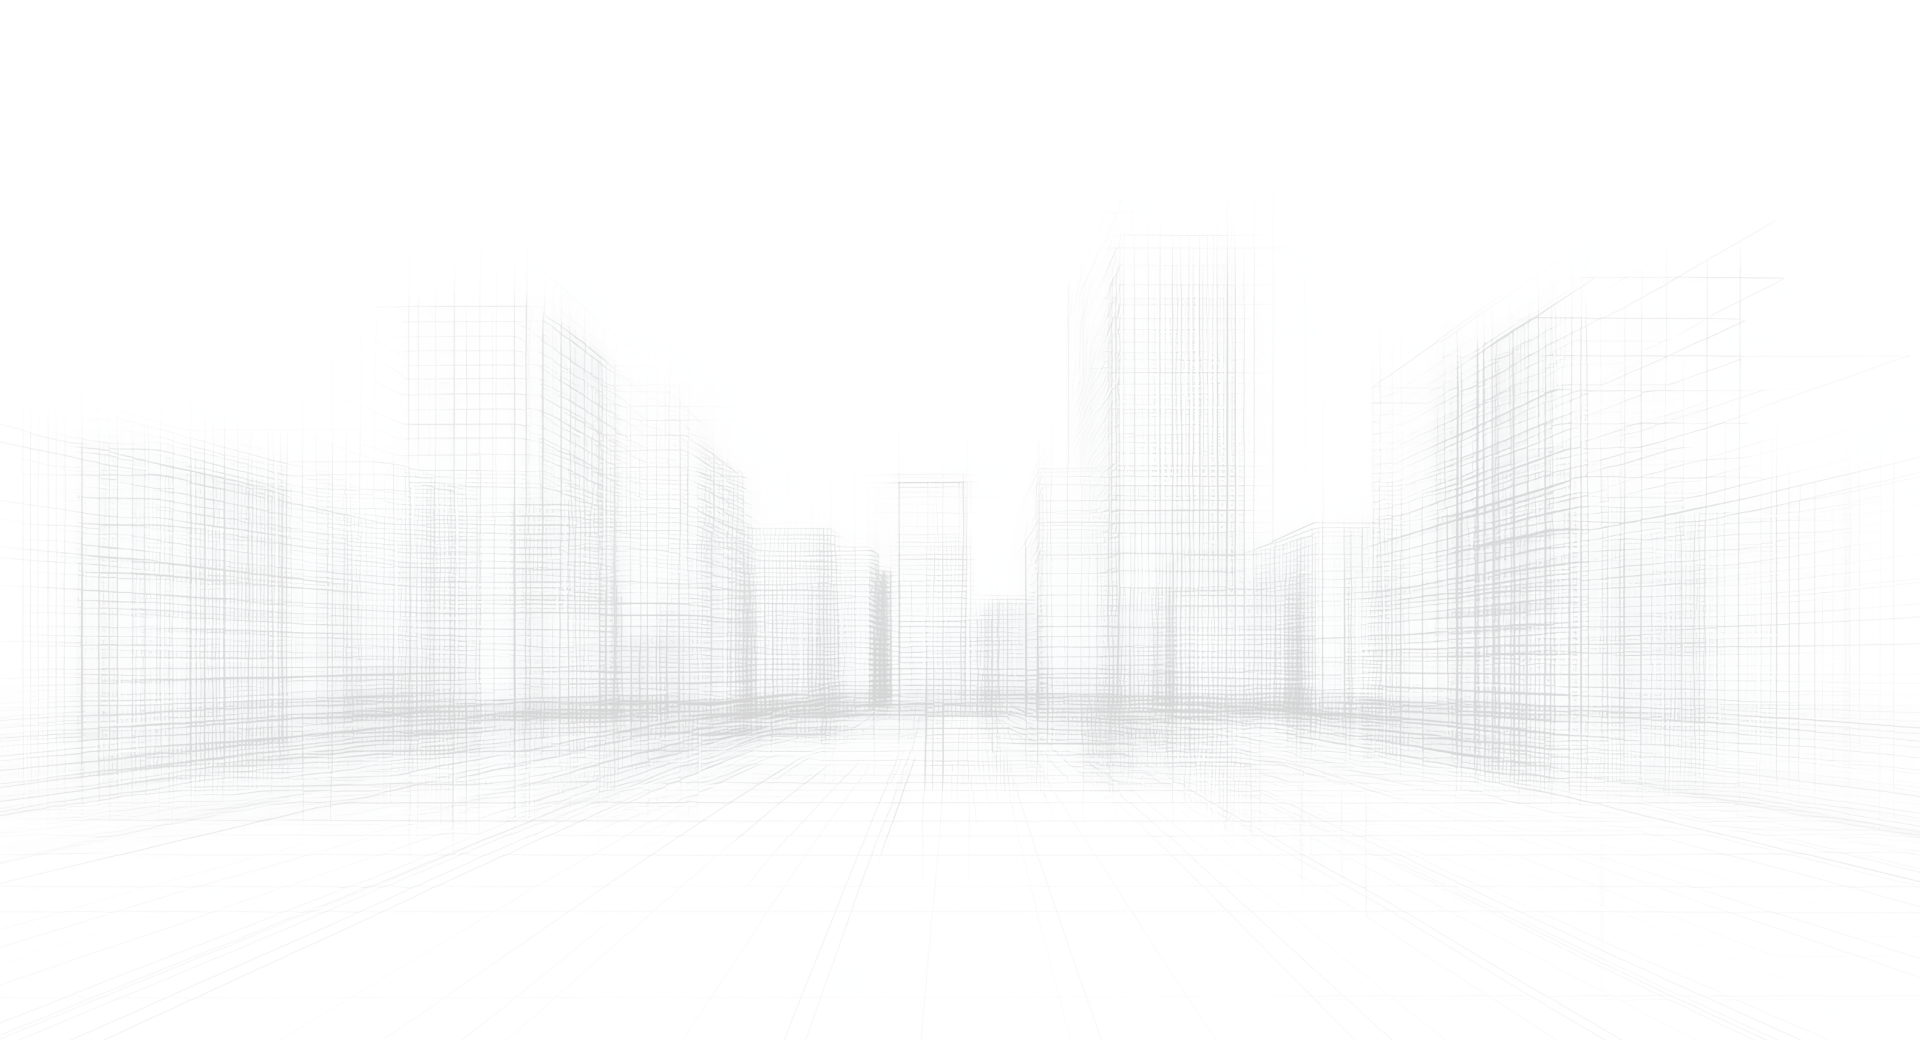
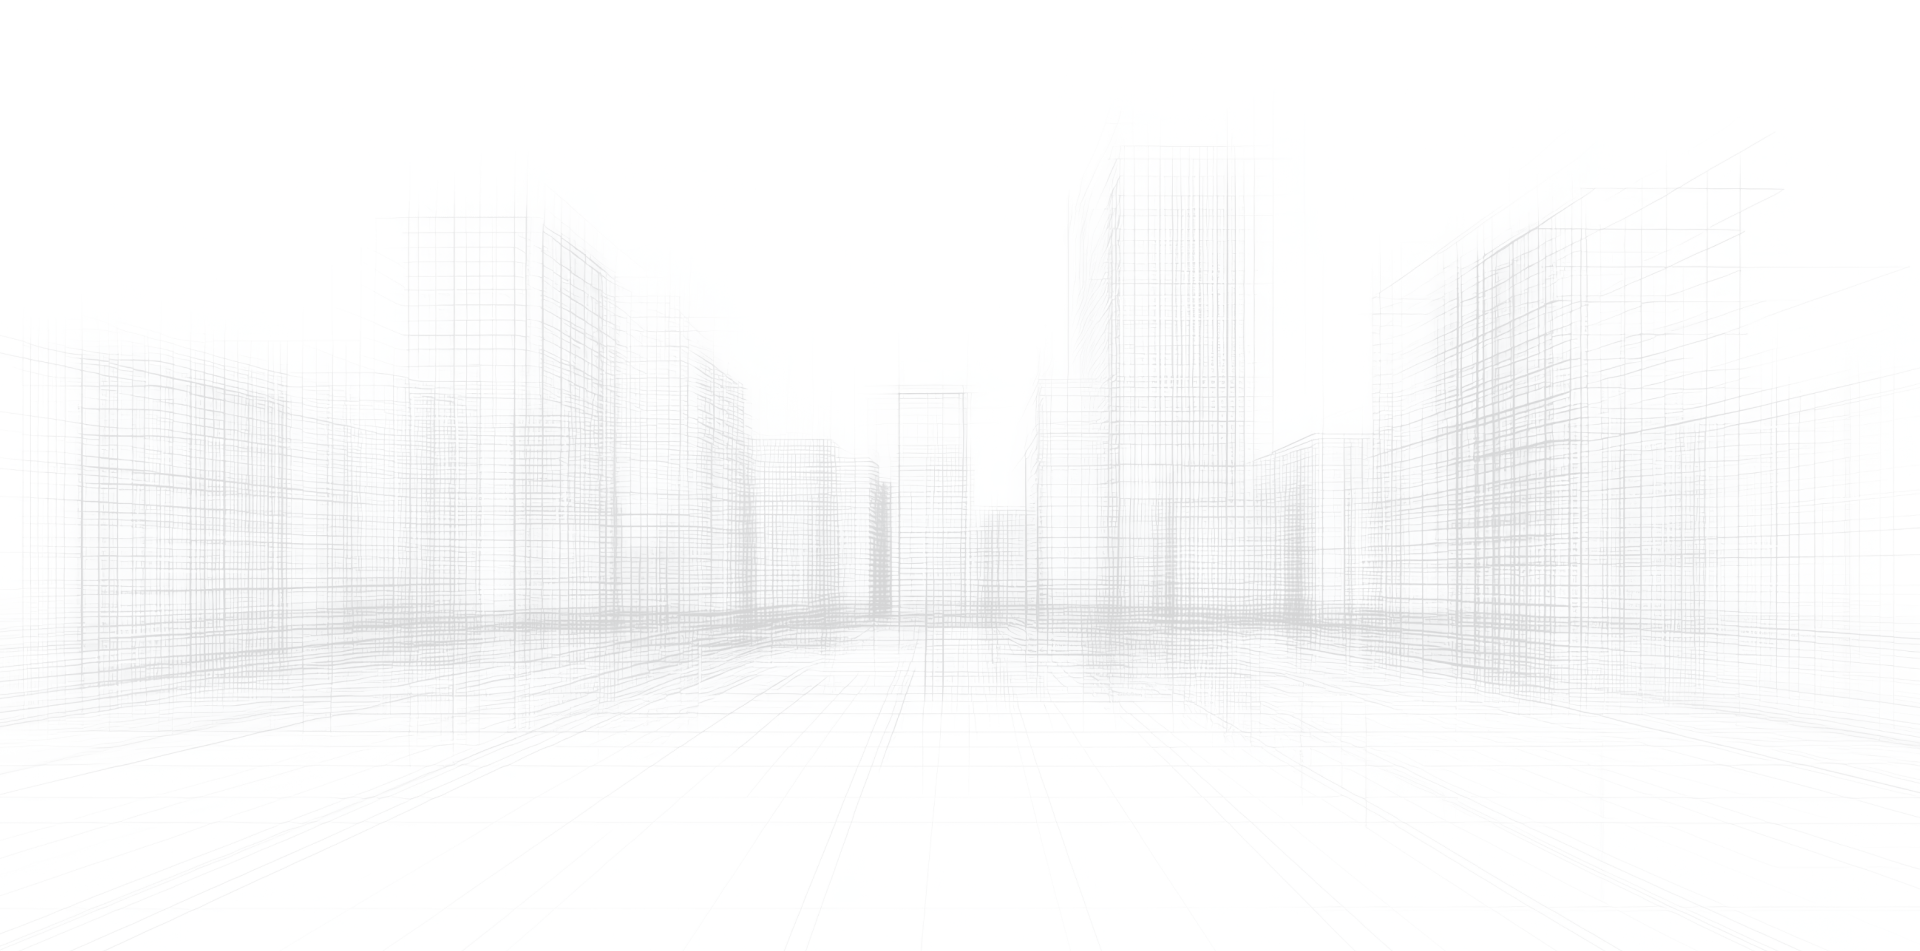
feat: add bottom architectural features in project section

diff --git a/src/components/modules/public/home/ProjectSection.tsx b/src/components/modules/public/home/ProjectSection.tsx
@@ -65,11 +65,11 @@ const ProjectSection = () => {
     <section
       id="projects"
       aria-labelledby="projects-heading"
-      className="py-20 md:py-28 lg:py-32 overflow-hidden bg-[url('/assets/bg-project.png')] bg-cover bg-center bg-no-repeat dark:bg-background relative"
+      className="overflow-hidden bg-[url('/assets/bg-project.png')] bg-top bg-no-repeat dark:bg-background relative py-20 md:py-28 lg:py-32"
     >
       {/* Background Overlay (optional for ensuring text readability) */}
-      <div className="absolute inset-0 bg-white/40 dark:bg-black/40 z-0 pointer-events-none" />
-
+      <div className="absolute inset-0 bg-white/30 dark:bg-black/40 z-0 pointer-events-none" />
+      
       {/* Header */}
       <div className="custom-container relative z-10">
         <SectionHeader
@@ -77,9 +77,15 @@ const ProjectSection = () => {
           headingId="projects-heading"
           title={
             <>
-              Creative <span className="text-liminal-secondary font-medium">Projects That</span>
+              Creative{" "}
+              <span className="text-liminal-secondary font-medium">
+                Projects That
+              </span>
               <br className="hidden sm:block" />{" "}
-              <span className="text-liminal-secondary font-medium">Define</span> Our Style
+              <span className="text-liminal-secondary font-medium">
+                Define
+              </span>{" "}
+              Our Style
             </>
           }
           description="Our portfolio showcases a diverse range of projects, from beautifully crafted residential spaces functional and stylish commercial interiors"
@@ -146,6 +152,27 @@ const ProjectSection = () => {
             })}
           </CarouselContent>
         </Carousel>
+      </div>
+
+      {/* Bottom Architectural Feature */}
+      <div className="relative w-full mt-6 md:mt-24 lg:mt-48 pb-8 pointer-events-none select-none z-10 flex justify-center items-center">
+        {/* Huge Background Typography */}
+        <div className="absolute left-1/2 bottom-1/2 -translate-x-1/2 z-0 whitespace-nowrap">
+          <span className="lg:text-[300px] sm:text-[25vw] text-[28vw] font-black tracking-[-0.07em] text-foreground/5 dark:text-foreground/3">
+            Interior
+          </span>
+        </div>
+        
+        {/* Floating Pavilion Render */}
+        <div className="relative w-full max-w-350 aspect-2.5/1 sm:aspect-3/1 md:aspect-4/1 lg:aspect-5.5/1 z-10">
+          <Image
+            src="/assets/project-1.png"
+            alt="Interior Architecture Concept"
+            fill
+            className="object-contain"
+            quality={100}
+          />
+        </div>
       </div>
     </section>
   );
